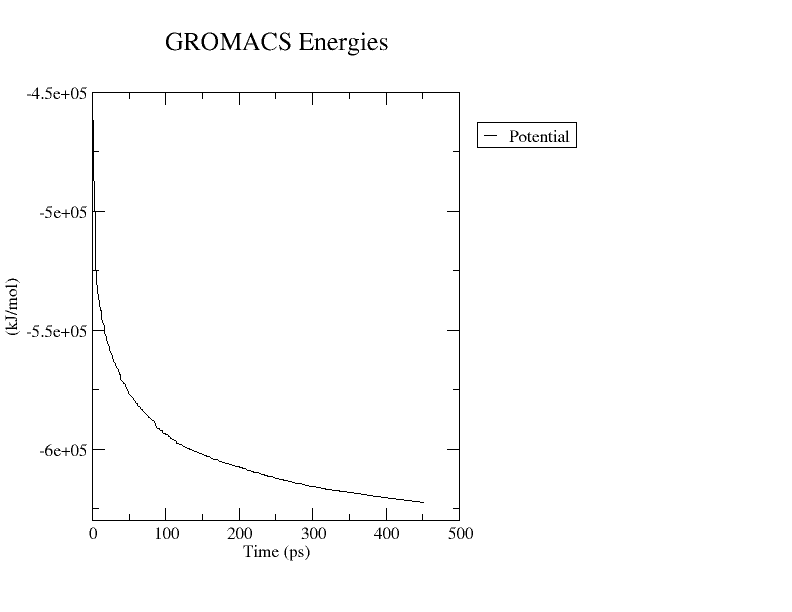
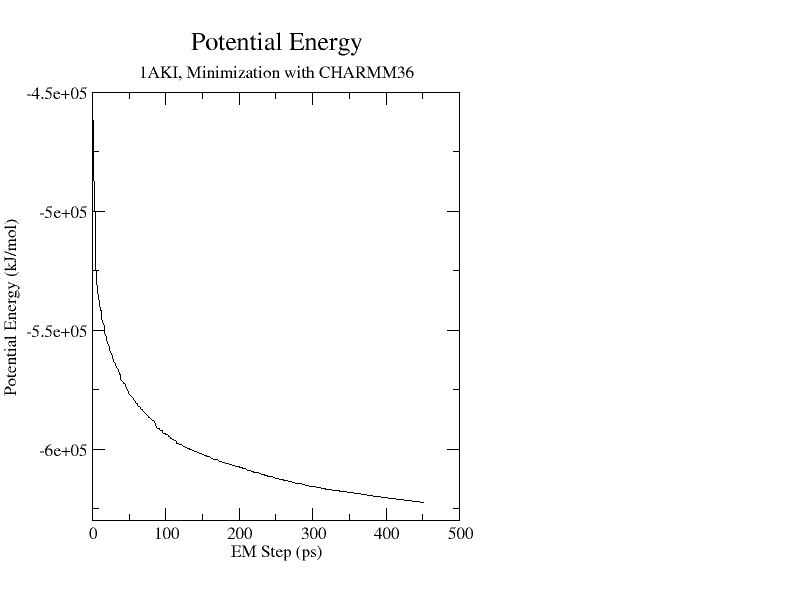
Added options to xmgrace for the images
Titles, axis lables etc. now match the reference images where
possible.

Tony

diff --git a/containers/2_ApplicationSpecific/GROMACS/EXAMPLES.md b/containers/2_ApplicationSpecific/GROMACS/EXAMPLES.md
@@ -756,8 +756,9 @@ Run "xmgrace" with the "potential.xvg" file
 apptainer run \
  -B /projects:/projects,/scratch:/scratch,/util:/util,/vscratch:/vscratch \
  GROMACS-$(arch).sif \
- xmgrace "potential.xvg"
-```
+ xmgrace "potential.xvg" \
+ -pexec 'title "Potential Energy"; subtitle "1AKI, Minimization with CHARMM36"; legend off; yaxis label "Potential Energy (kJ/mol)"; xaxis label "EM Step (ps)"'
+``
 
 This will display a plot that should look like this:  
 ![GROMACS Energies](images/potential.png)
@@ -1016,7 +1017,8 @@ e.g. in an OnDemand terminal window
 apptainer run \
  -B /projects:/projects,/scratch:/scratch,/util:/util,/vscratch:/vscratch \
  GROMACS-$(arch).sif \
- xmgrace -pexec "s0 symbol 1" "temperature.xvg"
+ xmgrace "temperature.xvg" \
+ -pexec 'title "Temperature"; subtitle "1AKI, NVT Equilibration"; legend off; yaxis label "Temperature (K)"; s0 symbol 1'
 ```
 
 My test plot looks like this:  
@@ -1260,10 +1262,11 @@ e.g. in an OnDemand terminal window
 apptainer run \
  -B /projects:/projects,/scratch:/scratch,/util:/util,/vscratch:/vscratch \
  GROMACS-$(arch).sif \
- xmgrace -pexec "s0 line type 0; s0 symbol 1" "pressure.xvg"
+ xmgrace "pressure.xvg" \
+ -pexec 'title "Pressure"; subtitle "1AKI, NPT Equilibration"; legend off; yaxis label "Pressure (bar)"; s0 line type 0; s0 symbol 1'
 ```
 
-Add a 10th degree regression line:
+Add a 10th degree regression line with:
 
 [Data] [Transformations] [Regresssion...] [10th Degree] [Accept]
 close the "Grace: Console" window and the "Regression" window
